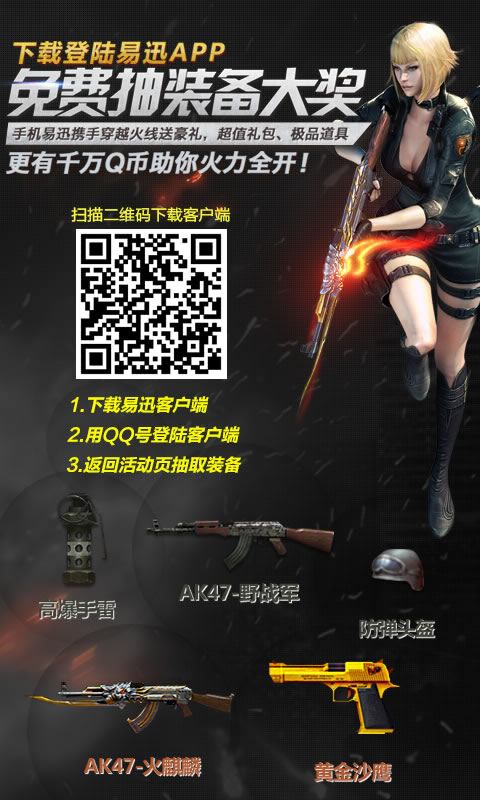
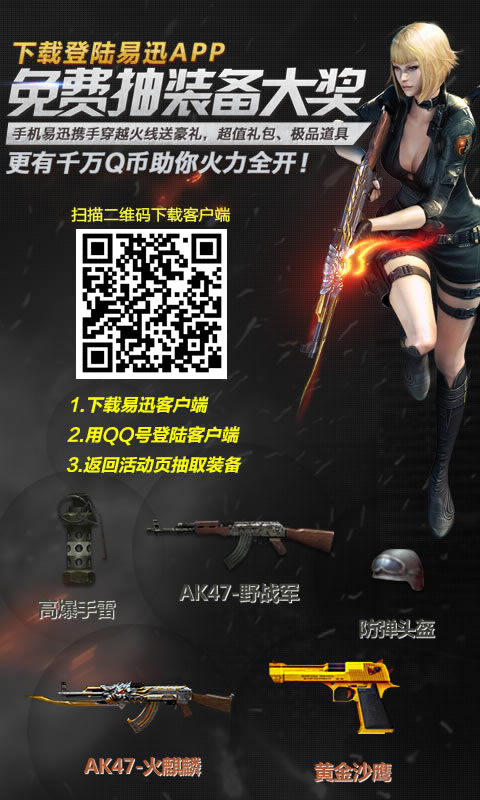
更改二维码

Changed region(s): [[0.1562, 0.2812, 0.4688, 0.4688]]

diff --git a/20131209-17219-cf抽奖/17788/index_pub.html b/20131209-17219-cf抽奖/17788/index_pub.html
@@ -248,7 +248,7 @@ $(document).ready(function () {
     var _t_evn = "下载登陆易迅客户端送CF礼包啦！极品装备！百万Q币等你来拿！易迅无线惊喜无限，小伙伴快来！"; //活动广告语
     var _t = "#"+_t_huati+"# "+_t_evn;
     var _url = encodeURIComponent('http://event.yixun.com/event/17788fbb2.html');//活动页面地址   
-    var _pic=encodeURI("http://img3.icson.com/template/2013/12/23/138779297407392400_img_300.jpg");//微博广告图片,可以空
+    var _pic=encodeURI("http://img3.icson.com/template/2013/12/23/138779387110321100_img_300.jpg");//微博广告图片,可以空
     $(".share-btn").click(function(){
         var _u = 'http://v.t.qq.com/share/share.php?title='+encodeURIComponent(_t_huati+_t_evn)+'&url='+_url+'&appkey=801148568&site=www.yixun.com&pic='+_pic;
         window.open(_u,'','width=600,height=300,top=0,left=0,toolbar=no,menubar=no,scrollbars=no,location=yes,resizable=no,status=no');

diff --git a/20131209-17219-cf抽奖/index_pub.html b/20131209-17219-cf抽奖/index_pub.html
@@ -194,7 +194,7 @@ $(document).ready(function () {
     var _t_evn = "下载登陆易迅客户端送CF礼包啦！极品装备！百万Q币等你来拿！易迅无线惊喜无限，小伙伴快来！"; //活动广告语
     var _t = "#"+_t_huati+"# "+_t_evn;
     var _url = encodeURIComponent('http://event.yixun.com/event/172192b63.html');//活动页面地址   
-    var _pic=encodeURI("http://img3.icson.com/template/2013/12/09/138658957351083000_img_300.jpg");//微博广告图片,可以空
+    var _pic=encodeURI("http://img3.icson.com/template/2013/12/23/138779332293624800_img_300.jpg");//微博广告图片,可以空
     $(".share-btn").click(function(){
         var _u = 'http://v.t.qq.com/share/share.php?title='+encodeURIComponent(_t_huati+_t_evn)+'&url='+_url+'&appkey=801148568&site=www.yixun.com&pic='+_pic;
         window.open(_u,'','width=600,height=300,top=0,left=0,toolbar=no,menubar=no,scrollbars=no,location=yes,resizable=no,status=no');
